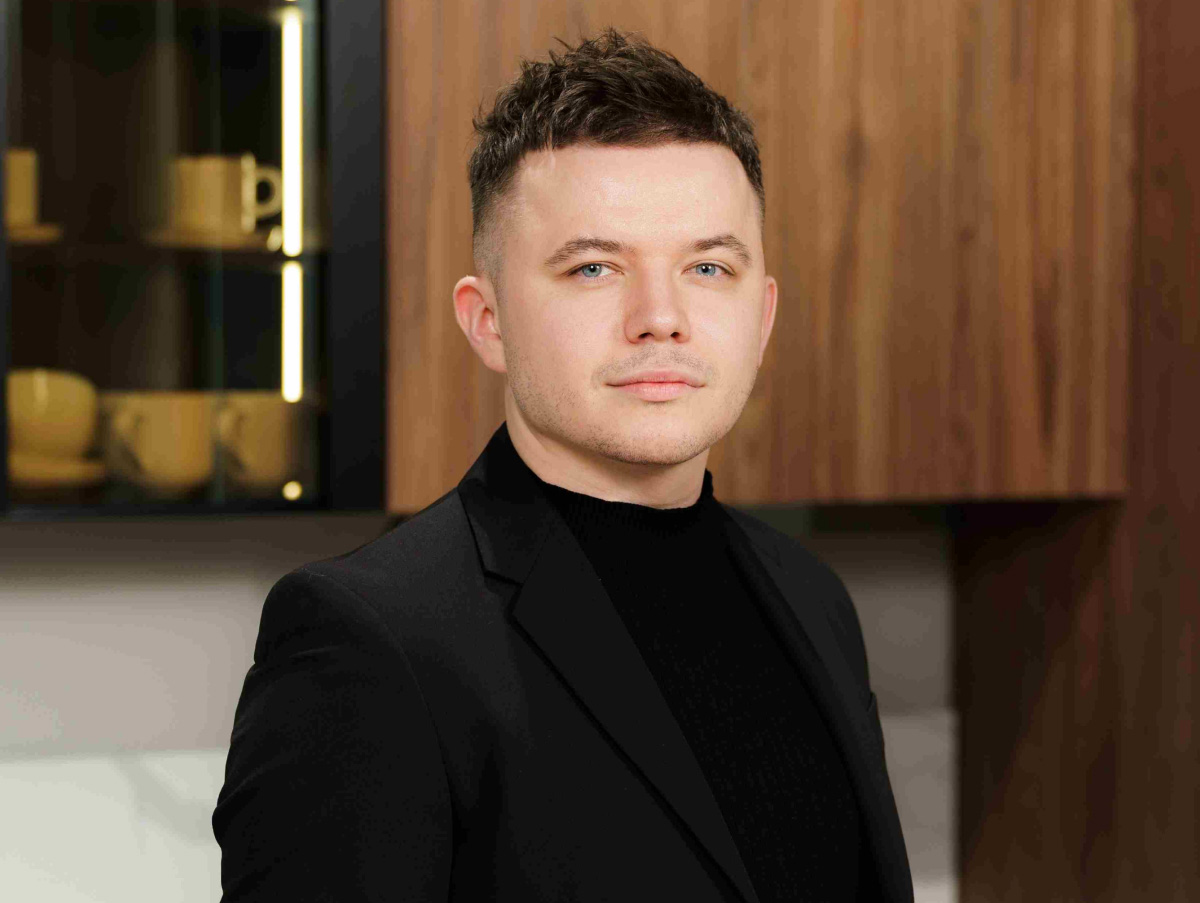
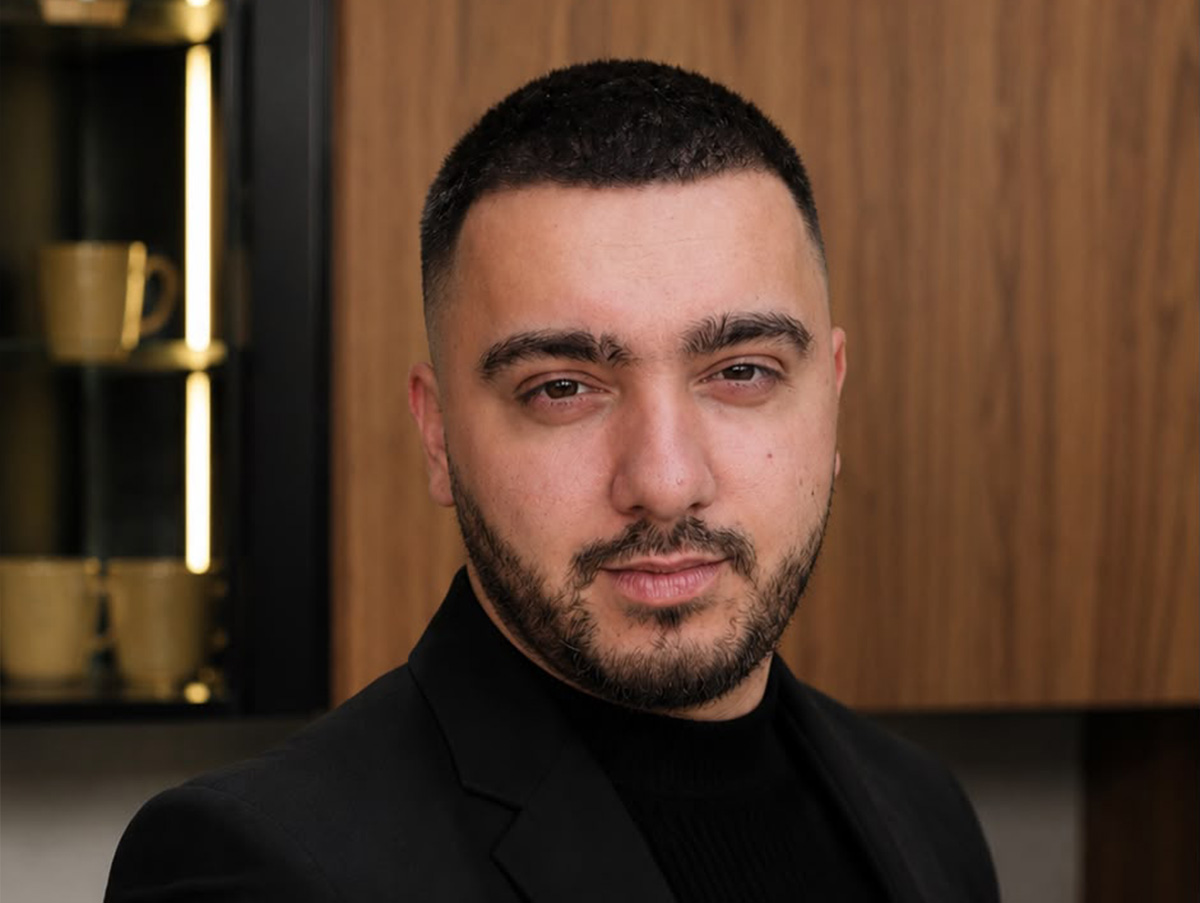
Update stats on homepage, remove Schweiz mention from Über uns

diff --git a/src/app/(public)/ueber-uns/page.tsx b/src/app/(public)/ueber-uns/page.tsx
@@ -37,12 +37,7 @@ export default function UeberUnsPage() {
             }}>
               Wo Handwerk auf Herz trifft –<br />Willkommen bei Milaro.
             </h1>
-            <p style={{
-              color: 'rgba(255,255,255,0.8)', margin: 0, maxWidth: 520,
-              lineHeight: 1.7, fontSize: '1.05rem',
-            }}>
-              Premium-Küchen und Massmöbel, gefertigt mit Liebe, Präzision und reinem Gewissen in der Schweiz.
-            </p>
+
           </div>
         </div>
       </section>

diff --git a/src/lib/constants.ts b/src/lib/constants.ts
@@ -133,7 +133,7 @@ export const CATEGORIES = [
 ]
 
 export const STATS = [
-  { value: '667 637', label: 'Aufträge ausgeführt seit 1999' },
+  { value: '1 667', label: 'Aufträge ausgeführt seit 2023' },
   { value: '20', label: 'Jahre Garantie' },
-  { value: '26', label: 'Jahre auf dem Markt' },
+  { value: '3', label: 'Jahre auf dem Markt' },
 ]